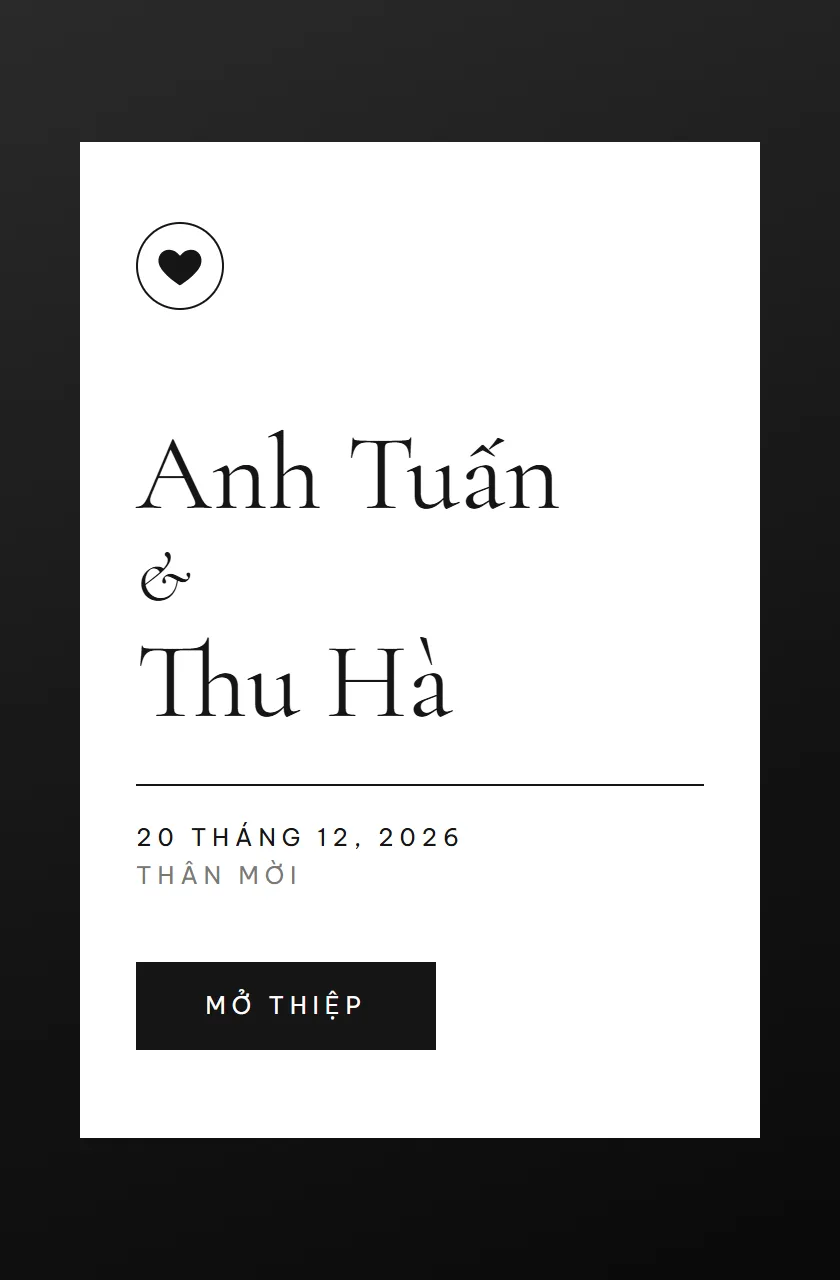
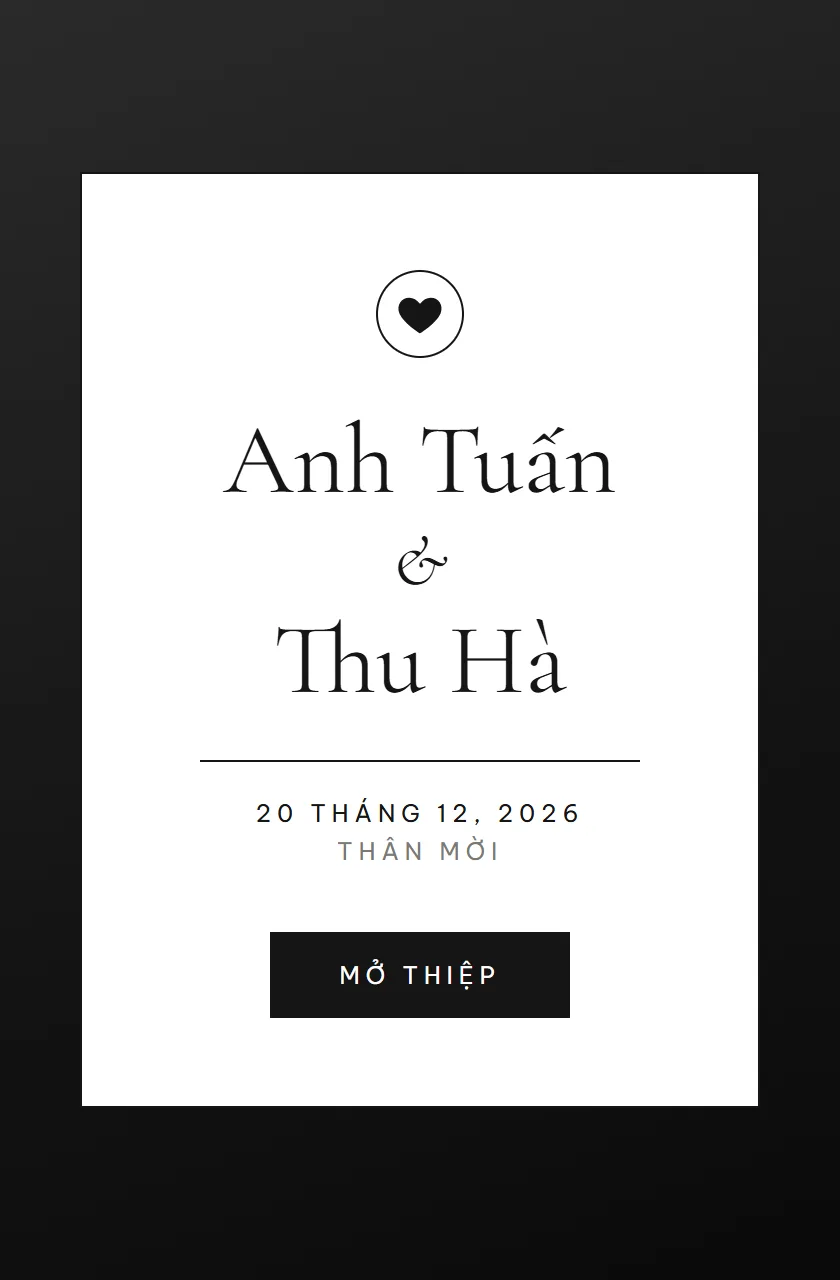
Mẫu tối giản: căn giữa thay vì căn trái kiểu tạp chí
Giữ chất tối giản (kẻ mảnh, chữ to, nhãn sans in hoa) nhưng mọi phần căn giữa
như các mẫu khác. Chụp lại ảnh bìa cho trang chủ.

diff --git a/src/components/invitation/invitation.css b/src/components/invitation/invitation.css
@@ -2213,37 +2213,41 @@
   font-size: 68px;
 }
 
-/* ===== Tối giản đen trắng: kiểu tạp chí, căn trái, kẻ mảnh, chữ to ===== */
-.t-mono-minimal .sec,
-.t-mono-minimal .end {
-  text-align: left;
-}
-
+/* ===== Tối giản đen trắng: căn giữa, kẻ mảnh, chữ to, nhãn sans in hoa ===== */
 .t-mono-minimal .sec-title {
   font-family: var(--font-ui), sans-serif;
   font-size: 11px;
   letter-spacing: 0.34em;
   color: var(--ink);
-  padding-bottom: 12px;
-  border-bottom: 1px solid var(--ink);
 }
 
 .t-mono-minimal .divider {
+  width: 40px;
+  height: 1px;
+  margin-top: 14px;
+  background: var(--ink);
+  color: transparent;
+}
+
+.t-mono-minimal .divider svg {
   display: none;
 }
 
-.t-mono-minimal .eyebrow {
+.t-mono-minimal .eyebrow,
+.t-mono-minimal .announce,
+.t-mono-minimal .gift .side {
   font-family: var(--font-ui), sans-serif;
+}
+
+.t-mono-minimal .announce {
+  font-size: 11px;
+  letter-spacing: 0.24em;
 }
 
 .t-mono-minimal .panel {
   box-shadow: none;
   border: 1px solid var(--ink);
-  padding: 28px 22px 34px;
-}
-
-.t-mono-minimal .parents {
-  text-align: left;
+  padding: 30px 22px 36px;
 }
 
 .t-mono-minimal .parents > div + div {
@@ -2251,16 +2255,8 @@
   border-left-color: var(--line);
 }
 
-.t-mono-minimal .announce {
-  margin-left: 0;
-  max-width: none;
-  font-family: var(--font-ui), sans-serif;
-  font-size: 11px;
-  letter-spacing: 0.24em;
-}
-
 .t-mono-minimal .couple .nm {
-  font-size: 46px;
+  font-size: 44px;
   line-height: 1;
 }
 
@@ -2275,34 +2271,16 @@
   border-top-color: var(--line);
 }
 
-.t-mono-minimal .when,
-.t-mono-minimal .actions,
-.t-mono-minimal .swatches,
-.t-mono-minimal .times {
-  justify-content: flex-start;
-}
-
-.t-mono-minimal .bigdate {
-  margin-top: 12px;
-}
-
 .t-mono-minimal .bigdate .d {
-  font-size: 96px;
+  font-size: 88px;
   border-right-color: var(--line);
 }
 
-.t-mono-minimal .cd {
-  margin-left: 0;
-  max-width: 320px;
-  text-align: left;
-}
-
 .t-mono-minimal .cd b {
-  font-size: 44px;
+  font-size: 40px;
 }
 
 .t-mono-minimal .cal {
-  margin-left: 0;
   border-radius: 0;
   border-color: var(--line);
 }
@@ -2310,10 +2288,6 @@
 .t-mono-minimal .cal-g .on::before {
   clip-path: none;
   border-radius: 50%;
-}
-
-.t-mono-minimal .frm .btn {
-  justify-self: start;
 }
 
 .t-mono-minimal .frm input:not([type="radio"]),
@@ -2349,53 +2323,43 @@
 }
 
 .t-mono-minimal .std-p1 {
-  left: 0;
+  left: 10px;
   top: 0;
-  width: 190px;
+  width: 180px;
 }
 
 .t-mono-minimal .std-p1 .photo {
-  height: 250px;
+  height: 240px;
 }
 
 .t-mono-minimal .std-p2 {
-  right: 0;
-  top: 120px;
+  right: 10px;
+  top: 110px;
   width: 130px;
 }
 
 .t-mono-minimal .std-p2 .photo {
-  height: 170px;
+  height: 175px;
 }
 
 .t-mono-minimal .std-l1 {
-  right: 0;
-  top: 40px;
-  width: 120px;
-  text-align: right;
+  right: 10px;
+  top: 30px;
 }
 
 .t-mono-minimal .std-l2 {
-  left: 0;
-  bottom: 10px;
-  text-align: left;
+  left: 10px;
+  bottom: 0;
 }
 
 .t-mono-minimal .std-names {
-  font-size: 56px;
+  font-size: 50px;
   line-height: 0.95;
-  text-align: left;
 }
 
 .t-mono-minimal .std-names .amp {
-  display: inline;
   font-style: italic;
-  font-size: 40px;
-  margin: 0 10px;
-}
-
-.t-mono-minimal .stage-foot {
-  max-width: none;
+  font-size: 36px;
 }
 
 .t-mono-minimal .stage-cap {
@@ -2406,18 +2370,10 @@
   box-shadow: 0 0 0 1px var(--line), 0 20px 40px -24px rgba(0, 0, 0, 0.5);
 }
 
-.t-mono-minimal .story {
-  text-align: left;
-}
-
 .t-mono-minimal .story-y {
   border-radius: 0;
   border-color: var(--ink);
   color: var(--ink);
-}
-
-.t-mono-minimal .gift .side {
-  font-family: var(--font-ui), sans-serif;
 }
 
 .t-mono-minimal .btn {
@@ -2439,14 +2395,14 @@
 
 .t-mono-minimal .cover-card {
   box-shadow: none;
-  padding: 40px 28px 44px;
-  text-align: left;
+  border: 1px solid var(--ink);
+  padding: 48px 28px 44px;
 }
 
 .t-mono-minimal .cover-heart {
-  margin: 0 0 56px;
   width: 44px;
   height: 44px;
+  margin-bottom: 28px;
   background: none;
   color: var(--ink);
   border: 1px solid var(--ink);
@@ -2454,7 +2410,7 @@
 }
 
 .t-mono-minimal .cover-names {
-  font-size: 54px;
+  font-size: 50px;
   line-height: 0.95;
   color: var(--ink);
 }
@@ -2463,7 +2419,6 @@
   font-style: italic;
   font-size: 36px;
   margin: 8px 0;
-  text-align: left;
 }
 
 .t-mono-minimal .cover-date,
@@ -2475,24 +2430,21 @@
 }
 
 .t-mono-minimal .cover-date {
-  margin-top: 26px;
+  margin: 26px auto 0;
   padding-top: 16px;
+  width: 220px;
   border-top: 1px solid var(--ink);
 }
 
 .t-mono-minimal .cover .btn {
   animation: none;
-  margin-top: 34px;
+  margin-top: 30px;
 }
 
 .t-mono-minimal .end .big {
   font-style: italic;
   font-size: 60px;
   padding: 0;
-}
-
-.t-mono-minimal .end .thanks {
-  margin-inline: 0;
 }
 
 /* ===== Xanh đêm sao: art-deco, khung viền kim đôi ===== */
